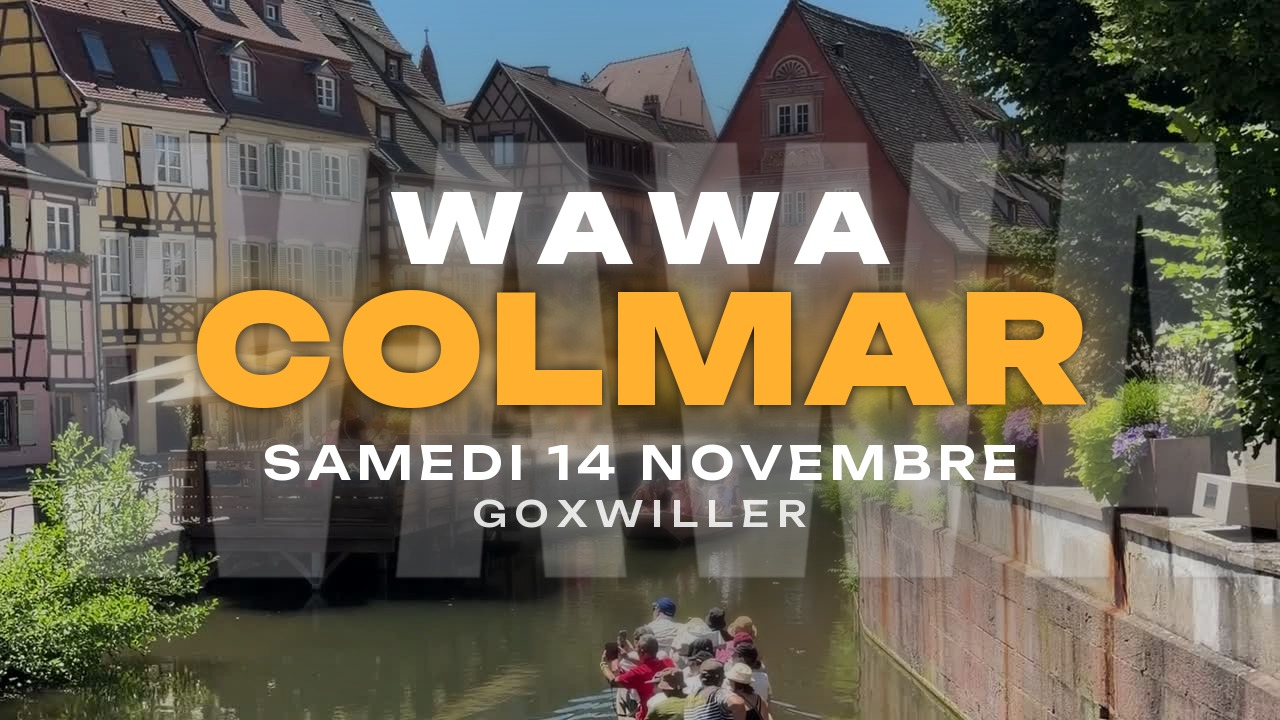
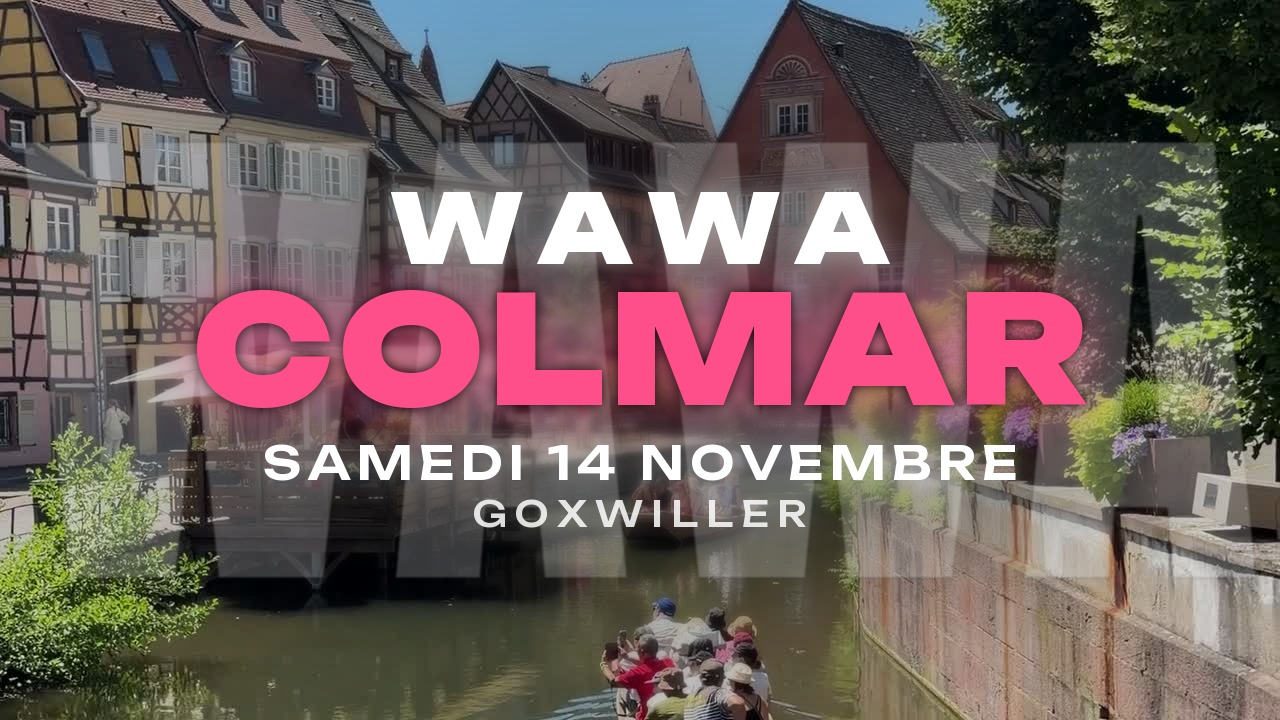
clients(konka-wawa): miniatures et thèmes de page aux couleurs des affiches

Changed region(s): [[0.1562, 0.3972, 0.8438, 0.5806]]

diff --git a/clients/konka-wawa/scripts-prod/habillage-pages-wawa.php b/clients/konka-wawa/scripts-prod/habillage-pages-wawa.php
@@ -1,0 +1,72 @@
+<?php
+// Konka Wawa (compte 6) : pages aux couleurs des affiches.
+// Miniatures (image principale + image de partage) pour Marseille, Colmar, Toulouse, Lyon,
+// et thème de page (fond sombre, couleur de la ville, police Outfit) sur les 5 dates.
+// Mêmes traitements que l'interface ; seul le thème change dans les paramètres. Relançable.
+
+use HiEvents\DomainObjects\Enums\ImageType;
+use HiEvents\Services\Application\Handlers\EventSettings\DTO\PartialUpdateEventSettingsDTO;
+use HiEvents\Services\Application\Handlers\EventSettings\PartialUpdateEventSettingsHandler;
+use HiEvents\Services\Application\Handlers\Images\CreateImageHandler;
+use HiEvents\Services\Application\Handlers\Images\DTO\CreateImageDTO;
+use Illuminate\Http\UploadedFile;
+use Illuminate\Support\Facades\DB;
+
+const ORGANIZER_ID = 9;
+const ACCOUNT_ID = 6;
+const USER_ID = 10;
+const DOSSIER = '/tmp/wawa-pages';
+const FOND = '#0e0c16';
+
+$dates = [
+    8 => ['Marseille', 'marseille', '#b47cff'],
+    9 => ['Colmar', 'colmar', '#ff4f8b'],
+    10 => ['Toulouse', 'toulouse', '#5ce36e'],
+    12 => ['Lyon', 'lyon', '#ff5a2e'],
+    11 => ['Limoges', null, '#6fd3ff'],
+];
+
+foreach ($dates as $eventId => [$ville, $slug]) {
+    $event = DB::table('events')->where('id', $eventId)->where('organizer_id', ORGANIZER_ID)->where('account_id', ACCOUNT_ID)->whereNull('deleted_at')->first();
+    if (!$event || $event->title !== 'Wawa – 25 ans de scène · '.$ville) {
+        throw new RuntimeException('Événement '.$eventId.' inattendu : rien n\'est modifié');
+    }
+    if ($slug && !is_readable(DOSSIER."/wawa-$slug-miniature.jpg")) {
+        throw new RuntimeException('Miniature manquante : '.$slug.' : rien n\'est modifié');
+    }
+}
+
+auth()->setUser(\HiEvents\Models\User::findOrFail(USER_ID));
+
+foreach ($dates as $eventId => [$ville, $slug, $accent]) {
+    app(PartialUpdateEventSettingsHandler::class)->handle(new PartialUpdateEventSettingsDTO(
+        account_id: ACCOUNT_ID,
+        event_id: $eventId,
+        settings: ['homepage_theme_settings' => [
+            'mode' => 'dark',
+            'accent' => $accent,
+            'background' => FOND,
+            'background_type' => 'COLOR',
+            'font_family' => 'Outfit',
+        ]],
+    ));
+
+    if ($slug) {
+        $miniature = DOSSIER."/wawa-$slug-miniature.jpg";
+        foreach ([ImageType::EVENT_COVER, ImageType::EVENT_SHARE_IMAGE] as $type) {
+            app(CreateImageHandler::class)->handle(new CreateImageDTO(
+                userId: USER_ID,
+                accountId: ACCOUNT_ID,
+                image: new UploadedFile($miniature, basename($miniature), 'image/jpeg', null, true),
+                imageType: $type,
+                entityId: $eventId,
+            ));
+        }
+    }
+
+    $theme = DB::table('event_settings')->where('event_id', $eventId)->value('homepage_theme_settings');
+    $images = DB::table('images')->where('entity_id', $eventId)->where('entity_type', 'like', '%EventDomainObject')
+        ->whereIn('type', ['EVENT_COVER', 'EVENT_SHARE_IMAGE', 'EVENT_COVER_VIDEO'])->whereNull('deleted_at')
+        ->pluck('type')->sort()->implode(', ');
+    echo $eventId.' | '.$ville.' | thème '.$theme.' | '.$images."\n";
+}

diff --git a/clients/konka-wawa/design/neon2.py b/clients/konka-wawa/design/neon2.py
@@ -2,10 +2,10 @@ import sys
 from PIL import Image, ImageDraw, ImageFont, ImageFilter, ImageEnhance
 S, K = sys.argv[1], sys.argv[2]
 W, H = 1280, 720
-villes = [("marseille","MARSEILLE","SAMEDI 7 NOVEMBRE","FLORIDA PALACE",(240,244,60)),
-          ("colmar","COLMAR","SAMEDI 14 NOVEMBRE","GOXWILLER",(255,176,46)),
-          ("toulouse","TOULOUSE","SAMEDI 21 NOVEMBRE","SALLE AMIRA",(80,240,140)),
-          ("lyon","LYON","VENDREDI 27 NOVEMBRE","LE GOLD RÉCEPTION",(90,200,255))]
+villes = [("marseille","MARSEILLE","SAMEDI 7 NOVEMBRE","FLORIDA PALACE",(180,124,255)),
+          ("colmar","COLMAR","SAMEDI 14 NOVEMBRE","GOXWILLER",(255,79,139)),
+          ("toulouse","TOULOUSE","SAMEDI 21 NOVEMBRE","SALLE AMIRA",(92,227,110)),
+          ("lyon","LYON","VENDREDI 27 NOVEMBRE","LE GOLD RÉCEPTION",(255,90,46))]
 def unb(s, w=900):
     f = ImageFont.truetype(f"{S}/Unbounded.ttf", s); f.set_variation_by_axes([w]); return f
 def anton(s): return ImageFont.truetype(f"{S}/Anton.ttf", s)
